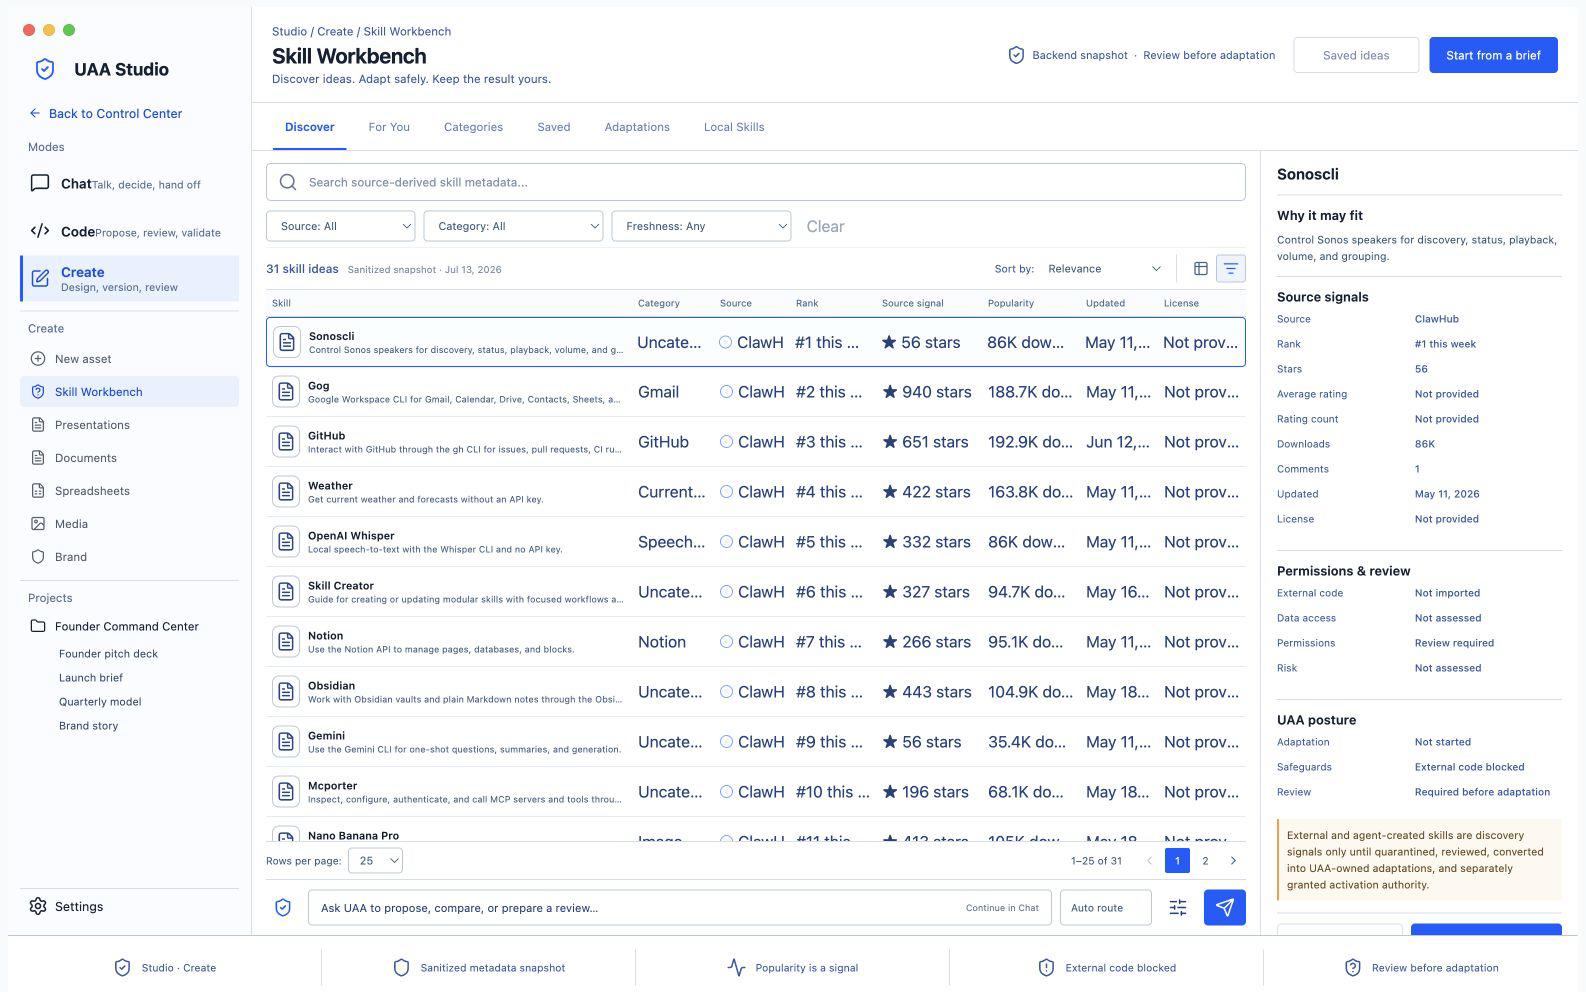
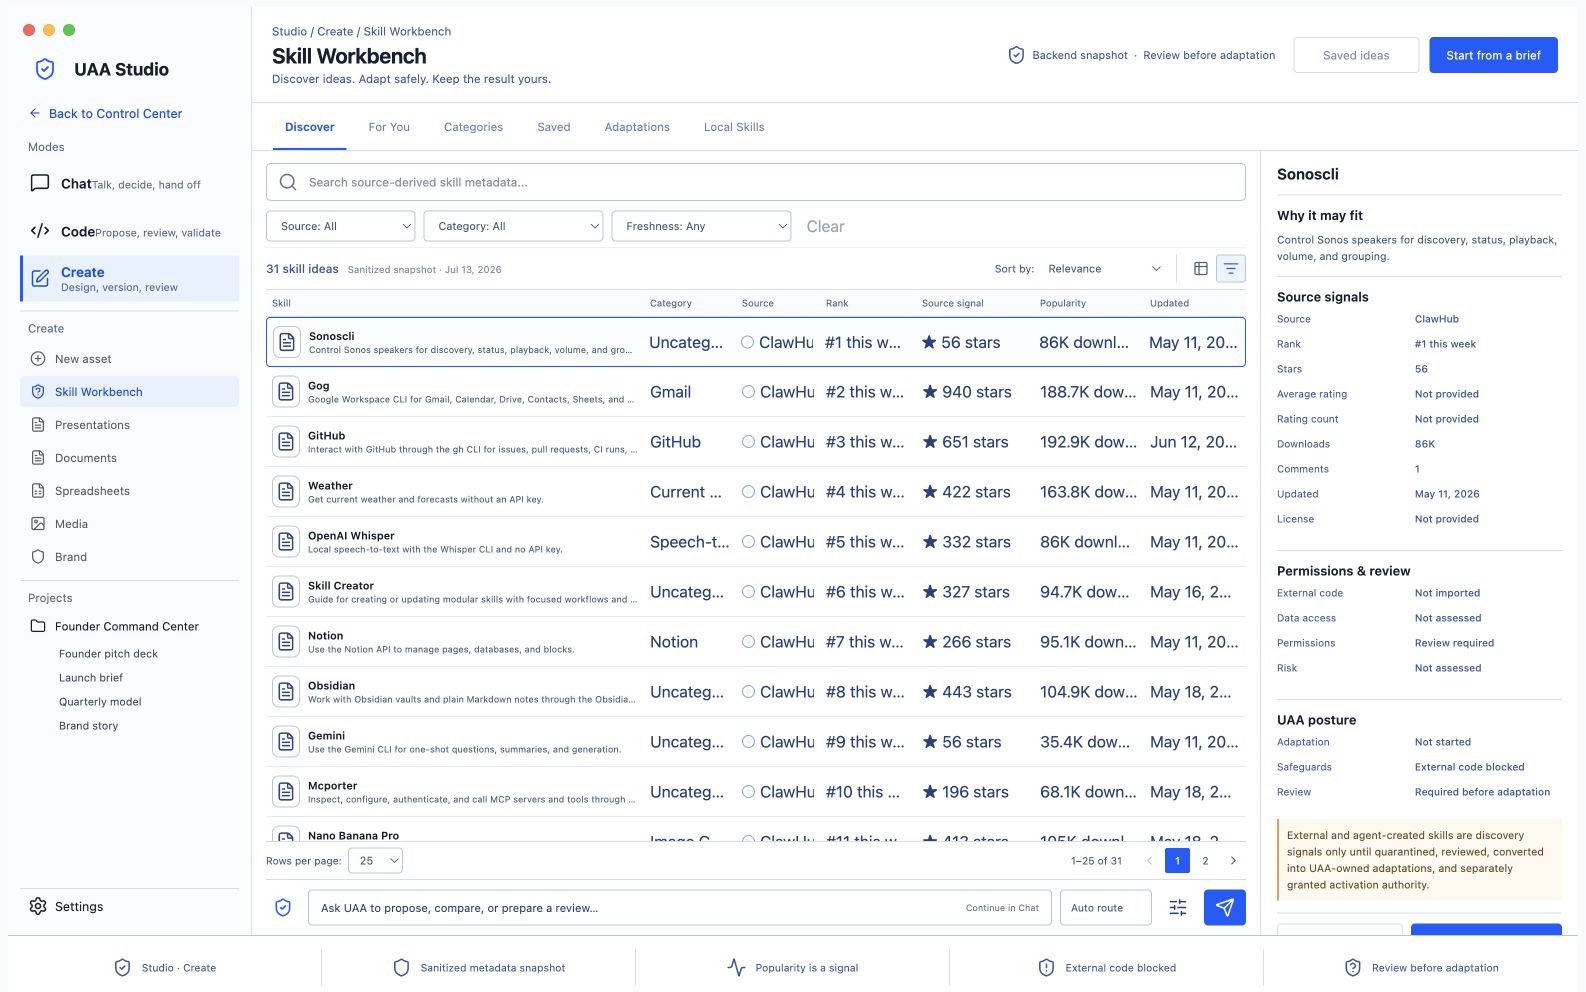
fix(control-center): remove skill list license column

diff --git a/apps/control-center/src/components/skillWorkbench/SkillWorkbench.test.tsx b/apps/control-center/src/components/skillWorkbench/SkillWorkbench.test.tsx
@@ -93,7 +93,7 @@ function posture(): RuntimeSkillMarketplacePostureReadModel {
 }
 
 describe("SkillWorkbench", () => {
-  it("shows source signals and uses license space instead of guessed risk", () => {
+  it("shows source signals without a license column or guessed risk", () => {
     render(<SkillWorkbench authoritative posture={posture()} />);
 
     expect(
@@ -106,7 +106,10 @@ describe("SkillWorkbench", () => {
     );
     expect(screen.getByText("★ 42 stars")).toBeInTheDocument();
     expect(screen.getAllByText("No source rating").length).toBeGreaterThan(0);
-    expect(screen.getAllByText("License").length).toBeGreaterThan(0);
+    const list = screen.getByLabelText("Skill idea list");
+    expect(within(list).queryByText("License")).not.toBeInTheDocument();
+    const inspector = screen.getByLabelText("Skill details");
+    expect(within(inspector).getByText("License")).toBeInTheDocument();
     expect(screen.queryByText(/low risk/i)).not.toBeInTheDocument();
     expect(screen.getByText("Risk").nextSibling).toHaveTextContent(
       "Not assessed",

diff --git a/apps/control-center/src/components/skillWorkbench/skillWorkbench.css b/apps/control-center/src/components/skillWorkbench/skillWorkbench.css
@@ -579,7 +579,7 @@
 .skill-list-row {
   display: grid;
   grid-template-columns:
-    minmax(200px, 2fr) 82px 76px 86px 106px 98px 78px 88px;
+    minmax(235px, 2.2fr) 92px 84px 96px 118px 110px 102px;
   align-items: center;
 }
 
@@ -700,7 +700,6 @@
 .skill-list-score,
 .skill-list-popularity,
 .skill-list-updated,
-.skill-list-license,
 .skill-list-rank,
 .skill-list-category {
   white-space: nowrap;
@@ -1072,7 +1071,7 @@
 
   .skill-list-header,
   .skill-list-row {
-    grid-template-columns: minmax(190px, 2fr) 76px 88px 106px 94px 78px 88px;
+    grid-template-columns: minmax(220px, 2.2fr) 90px 104px 122px 106px 96px;
   }
 
   .skill-list-header span:nth-child(2),
@@ -1104,7 +1103,7 @@
 
   .skill-list-header,
   .skill-list-row {
-    grid-template-columns: minmax(190px, 2fr) 74px 88px 104px 86px;
+    grid-template-columns: minmax(210px, 2fr) 84px 100px 118px;
   }
 
   .skill-list-header span:nth-child(6),

diff --git a/apps/control-center/src/components/skillWorkbench/SkillWorkbenchResults.tsx b/apps/control-center/src/components/skillWorkbench/SkillWorkbenchResults.tsx
@@ -54,7 +54,6 @@ export function SkillWorkbenchResults({
         <span>Source signal</span>
         <span>Popularity</span>
         <span>Updated</span>
-        <span>License</span>
       </div>
       <div className="skill-list-body">
         {entries.map((entry) => (
@@ -144,7 +143,6 @@ function SkillListRow({
       <span className="skill-list-updated">
         {formatDate(entry.source_updated_at)}
       </span>
-      <span className="skill-list-license">{entry.license_label}</span>
     </button>
   );
 }

diff --git a/tests/test_control_center_studio_render_evidence.py b/tests/test_control_center_studio_render_evidence.py
@@ -41,6 +41,15 @@ def test_accepted_skill_workbench_views_are_hash_and_signal_bound() -> None:
     assert surface["default_view"] == "list"
     assert surface["page_size"] == 25
     assert surface["grid_filter"] == "hermes"
+    assert surface["list_columns"] == [
+        "skill",
+        "category",
+        "source",
+        "rank",
+        "source_signal",
+        "popularity",
+        "updated",
+    ]
     assert surface["source_signals"] == [
         "rank",
         "stars",

diff --git a/docs/design/control_center_north_star/RENDER_MANIFEST.md b/docs/design/control_center_north_star/RENDER_MANIFEST.md
@@ -110,15 +110,16 @@ longer define separate current workspaces:
 ### Skill Workbench Create surface
 
 The Skill Workbench grid and list views are accepted Create-mode sub-surfaces.
-The list is the default view, uses 25-row pagination, and spends its final
-column on source-provided license information rather than a guessed risk badge.
+The list is the default view, uses 25-row pagination, and omits both speculative
+risk and repeated license columns. Source-provided license detail remains in the
+selected-item inspector.
 Source rank, stars, downloads, comments, and future ratings remain distinct
 discovery signals. Missing ratings render as unavailable, not zero.
 
 | File | Surface/version | Required change | Must not imply |
 |---|---|---|---|
 | `renders/target-v3/07-skill-workbench-grid-v1.png` | Skill Workbench grid v1, Hermes filter | compact discovery cards; honest missing source scores; metadata-only and review posture; selected inspector | live marketplace fetch, trusted popularity, imported code, install, or execution |
-| `renders/target-v3/08-skill-workbench-list-v1.png` | Skill Workbench list v1 | dense rows; list/grid toggle; 25-row pagination; source-specific missing values; license column; inspector detail | invented average ratings, guessed risk, source signal as UAA trust, or adaptation authority |
+| `renders/target-v3/08-skill-workbench-list-v1.png` | Skill Workbench list v1 | dense rows; list/grid toggle; 25-row pagination; source-specific missing values; no license column; inspector detail | invented average ratings, guessed risk, source signal as UAA trust, or adaptation authority |
 
 ## Messenger Matrix Client V1
 

diff --git a/docs/control_center/OPERATOR_SHELL_GAP_MAP.md b/docs/control_center/OPERATOR_SHELL_GAP_MAP.md
@@ -266,11 +266,11 @@ skill-marketplace posture plus a sanitized, source-derived metadata snapshot.
 List/grid selection, search, filters, selected item, and 25-row pagination are
 presentation state. ClawHub stars/downloads/rank remain discovery signals;
 missing Hermes ratings and popularity aggregates render as unavailable. The
-list uses source license data rather than a guessed risk badge, while the
-inspector reports risk as not assessed. Saved, adaptation, local-skill,
-blocked/rejected, and live-source lanes remain unavailable. External metadata
-is not trust, install authority, runtime import authority, execution authority,
-or local enablement. Future live metadata fetch must route through
+list omits repeated license and guessed-risk columns, while the inspector keeps
+source license detail and reports risk as not assessed. Saved, adaptation,
+local-skill, blocked/rejected, and live-source lanes remain unavailable.
+External metadata is not trust, install authority, runtime import authority,
+execution authority, or local enablement. Future live metadata fetch must route through
 WebAccessGateway; external code remains untrusted reference material until
 rewritten or adapted into reviewed UAA-owned material under later exact
 authority.

diff --git a/docs/kanban/current_board.md b/docs/kanban/current_board.md
@@ -49,9 +49,9 @@ local/private, safe-ref-only manual operator review artifact with
 promotion.
 The Studio Skill Workbench now has a partial read-only implementation backed by
 a sanitized 31-record ClawHub and Hermes metadata snapshot. Discovery, filters,
-source signals, source-reported licenses, and pagination are available; live
-fetching, installation, adaptation, external code import, and guessed risk
-ratings remain blocked.
+source signals, inspector-level source license detail, and pagination are
+available; live fetching, installation, adaptation, external code import, and
+guessed risk ratings remain blocked.
 AuthorityLease typed constraints, durable budget ledger V1, and the initial
 governed dispatcher V1 are implemented in Python Core for exact resource, path,
 app, host, delegation-depth,

diff --git a/docs/design/STUDIO_TAB_PRODUCT_DIRECTION.md b/docs/design/STUDIO_TAB_PRODUCT_DIRECTION.md
@@ -135,9 +135,10 @@ and
 `control_center_north_star/renders/target-v3/08-skill-workbench-list-v1.png`.
 The implemented `/studio/skills` slice uses a backend-owned sanitized metadata
 snapshot, 25-row pagination, source-specific popularity fields, and an
-inspector that says risk is not assessed. The list uses source license data in
-place of a speculative risk badge. Live marketplace fetch, saving, adaptation,
-import, enablement, and execution remain blocked or unimplemented.
+inspector that says risk is not assessed and retains source license detail. The
+list omits both license and speculative-risk columns. Live marketplace fetch,
+saving, adaptation, import, enablement, and execution remain blocked or
+unimplemented.
 
 ## Implementation Direction
 

diff --git a/docs/control_center/SKILL_WORKBENCH_DISCOVERY_AND_ADOPTION.md b/docs/control_center/SKILL_WORKBENCH_DISCOVERY_AND_ADOPTION.md
@@ -43,8 +43,8 @@ fetching, copying wholesale, or activating external code.
 - ClawHub weekly rank, stars, downloads, installs, and comments when supplied
 - explicit `Not provided by source` treatment for missing Hermes ranks,
   ratings, stars, and download aggregates
-- source-provided license information in the list instead of a guessed risk
-  badge
+- a focused list with no speculative risk or repeated license column; source
+  license detail remains available in the selected-item inspector
 - `Risk: Not assessed` in the inspector only, with review and adaptation
   posture kept separate from popularity
 
